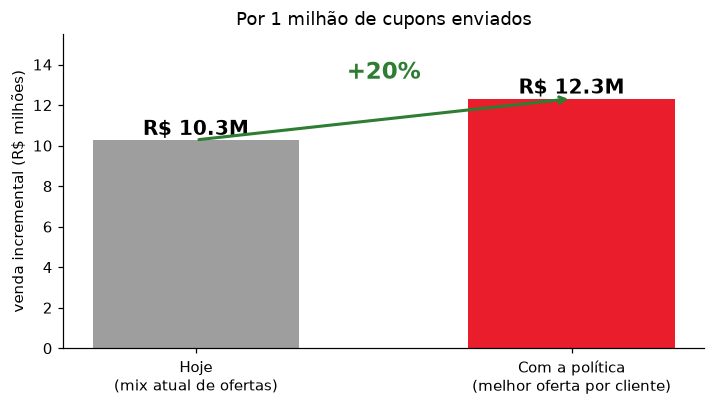
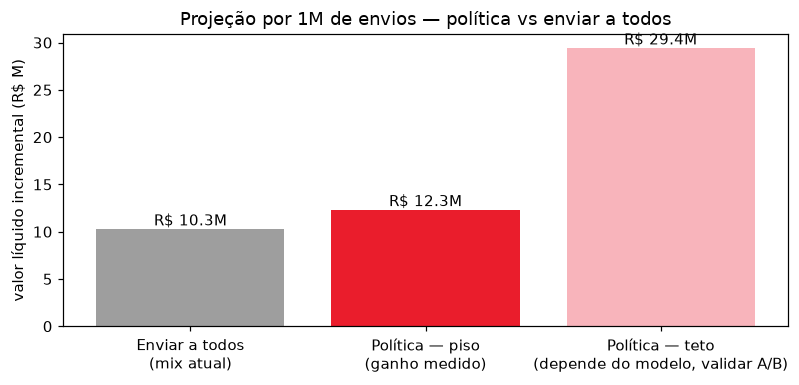
Deck: usa a figura de 3 barras do NB2 no slide de conclusao
Substitui a figura de 2 barras (11_impacto_deck.png) pela versao de 3
barras do notebook 2: enviar a todos (R$10,3M), piso conservador
(R$12,3M) e teto model-based (R$29,4M).

Corrige de passagem um rotulo errado: a barra do piso vinha rotulada
como "melhor oferta por cliente", que e a descricao do teto. As barras
agora nomeiam piso e teto explicitamente.

Reintroduz o R$29,4M removido em 1fd1f0b, e a seta "+20%" sai do
grafico -- o titulo, o bullet 3 e a nota de rodape ainda citam o +20%,
que passa a ser uma comparacao entre a 1a e a 2a barra.

diff --git a/src/build_deck.py b/src/build_deck.py
@@ -43,23 +43,19 @@ plt.savefig(FIG / "10_funnel.png", bbox_inches="tight")
 plt.close(fig)
 
 # ------------------------------------------- figura de impacto (versão do deck)
-# O notebook 2 gera uma versão com 3 barras, incluindo o teto model-based
-# (~R$29M). Para a apresentação usamos só o que está medido nos dados: o cenário
-# atual e o piso conservador. O teto fica no notebook, para quem perguntar.
-fig, ax = plt.subplots(figsize=(6.6, 3.8))
-vals = [10.28, 12.32]
-barras = ax.bar(["Hoje\n(mix atual de ofertas)", "Com a política\n(melhor oferta por cliente)"],
-                vals, color=["#9E9E9E", "#EA1D2C"], width=0.55)
-for b, v in zip(barras, vals):
-    ax.text(b.get_x() + b.get_width() / 2, v + 0.25, f"R$ {v:.1f}M",
-            ha="center", fontsize=13, fontweight="bold")
-ax.annotate("", xy=(1, 12.32), xytext=(0, 10.28),
-            arrowprops=dict(arrowstyle="->", color="#2E7D32", lw=2))
-ax.text(0.5, 13.3, "+20%", ha="center", color="#2E7D32", fontsize=15, fontweight="bold")
-ax.set_ylabel("venda incremental (R$ milhões)")
-ax.set_title("Por 1 milhão de cupons enviados")
-ax.set_ylim(0, 15.5)
-ax.spines[["top", "right"]].set_visible(False)
+# Mesma figura de 3 barras do notebook 2 (09_business_impact.png): cenário
+# atual, piso conservador (ganho medido) e teto model-based, este último a
+# validar em A/B. As barras nomeiam piso e teto explicitamente, então não há
+# risco de ler o piso como "melhor oferta por cliente" (que é o teto).
+fig, ax = plt.subplots(figsize=(7.5, 3.6))
+vals = [10.28, 12.32, 29.42]
+ax.bar(["Enviar a todos\n(mix atual)", "Política — piso\n(ganho medido)",
+        "Política — teto\n(depende do modelo, validar A/B)"],
+       vals, color=["#9E9E9E", "#EA1D2C", "#F8B4BB"])
+for i, v in enumerate(vals):
+    ax.text(i, v, f"R$ {v:.1f}M", ha="center", va="bottom")
+ax.set_ylabel("valor líquido incremental (R$ M)")
+ax.set_title("Projeção por 1M de envios — política vs enviar a todos")
 plt.tight_layout()
 plt.savefig(FIG / "11_impacto_deck.png", bbox_inches="tight")
 plt.close(fig)
